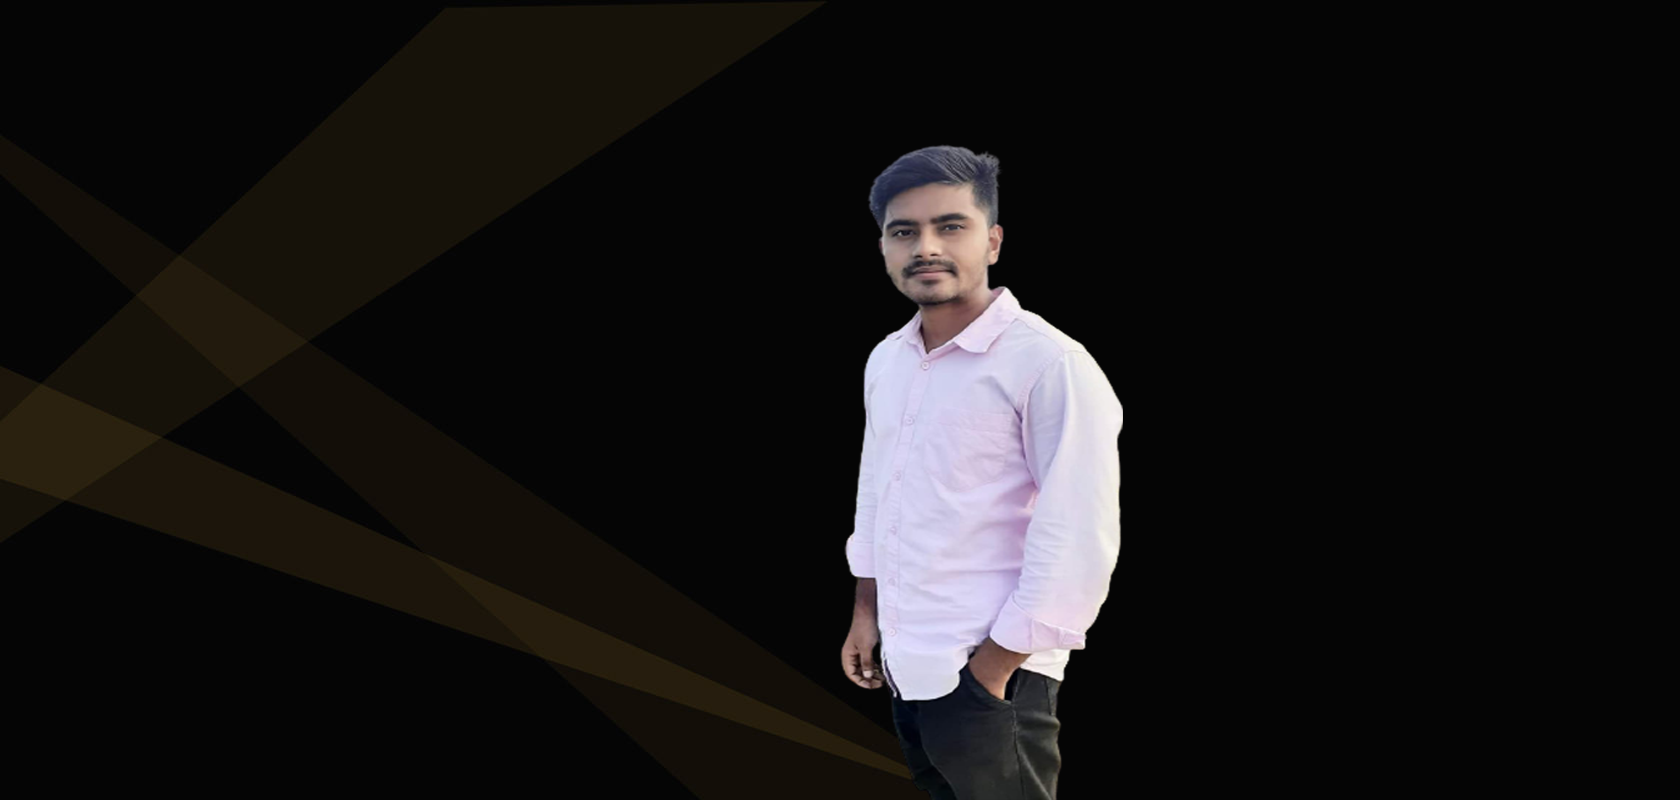
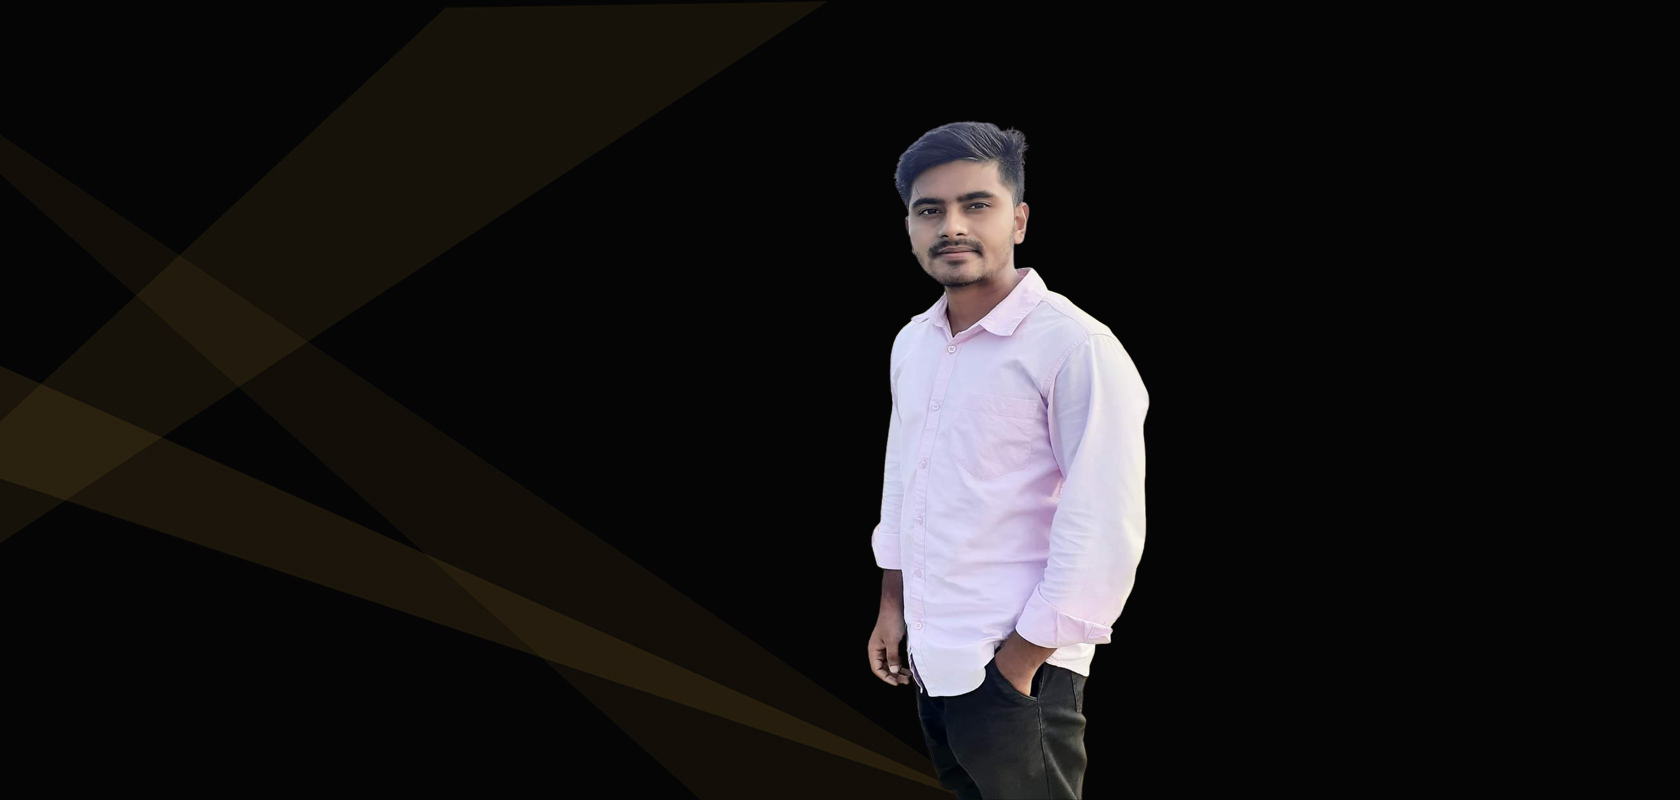
Profile Done

Changed region(s): [[0.4952, 0.1562, 0.681, 1.0]]

diff --git a/index.html b/index.html
@@ -56,7 +56,7 @@
             <h2 class="title">About me</h2>
             <div class="about-content">
                 <div class="column left">
-                    <img src="images/profile-1.jpeg" alt="">
+                    <img src="images/profile.png" alt="">
                 </div>
                 <div class="column right">
                     <div class="text">I'm Prakash and I'm a <span class="typing-2"></span></div>

diff --git a/style.css b/style.css
@@ -565,7 +565,6 @@ footer span a:hover{
         width: 350px;
     }
 }
-
 @media (max-width: 991px) {
     .max-width{
         padding: 0 50px;
